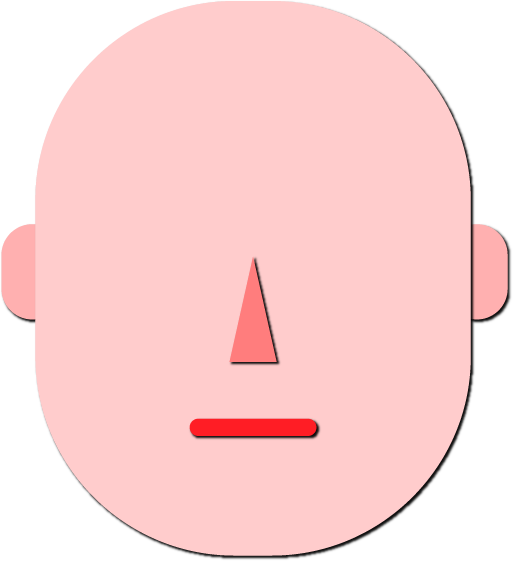
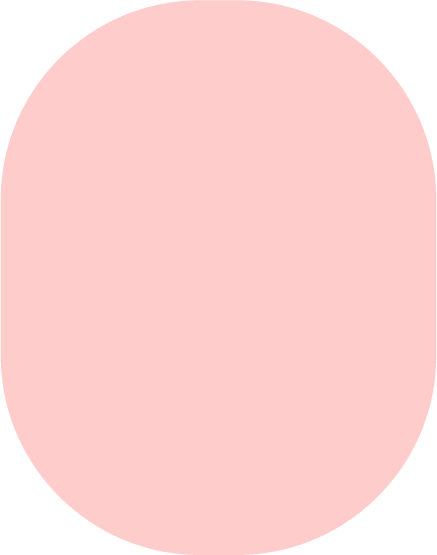
얼굴 요소 분리(눈/코/입/귀), 애니메이션 및 일러스트 디테일 조정

diff --git a/2/styles.css b/2/styles.css
@@ -11,83 +11,113 @@ body {
 
 #hair {
     position: absolute;
-    width: 450px;
-    top: -60px;
-    left: 0px;
+    width: 460px;
+    top: -50px;
+    left: -30px;
+    filter: drop-shadow( 1px 1px 2px black);
 }
 
 #face {
-    width: 450px;
+    width: 400px;
+    filter: drop-shadow( 1px 1px 2px black);
+}
+
+#nose {
+    position: absolute;
+    top: 250px;
+    left: 179px;
+    filter: drop-shadow( 1px 1px 2px black);
+}
+
+#mouse {
+    position: absolute;
+    top: 400px;
+    left: 138px;
+    filter: drop-shadow( 1px 1px 2px black);
+}
+
+#left_ear {
+    position: absolute;
+    top: 220px;
+    left: -35px;
+    filter: drop-shadow( 1px 1px 1px black);
+}
+
+#right_ear {
+    position: absolute;
+    top: 220px;
+    left: 370px;
+    filter: drop-shadow( 0px 1px 1px black);
 }
 
 #left_eye {
     position: absolute;
-    top: 188px;
-    left: 85px;
+    top: 210px;
+    left: 61px;
     filter: drop-shadow( 1px 2px 2px rgba(0, 0, 0, .7));
 }
 
 #right_eye {
     position: absolute;
-    top: 188px;
-    left: 261px;
+    top: 210px;
+    left: 238px;
     filter: drop-shadow( 1px 2px 2px rgba(0, 0, 0, .7));
 }
 
 #left_pupil {
     position: absolute;
-    top: 219px;
-    left: 115px;
+    top: 240px;
+    left: 88px;
     width: 40px;
     height: 40px;
     background-color: rgb(0, 153, 255);
     border-radius: 100%;
+    filter: drop-shadow( 2px 2px 1px rgba(0, 0, 0, .7));
 }
 
 #right_pupil {
     position: absolute;
-    top: 219px;
-    left: 290px;
+    top: 240px;
+    left: 268px;
     width: 40px;
     height: 40px;
     background-color: rgb(0, 153, 255);
     border-radius: 100%;
+    filter: drop-shadow( 2px 2px 1px rgba(0, 0, 0, .7));
 }
 
 #left_eye_closed {
     display: none;
     position: absolute;
-    width: 100px;
-    height: 10px;
-    background-color: black;
-    left: 80px;
-    top: 230px;
+    left: 67px;
+    top: 250px;
+    filter: drop-shadow( 2px 2px 1px rgba(0, 0, 0, .7));
 }
 
 #right_eye_closed {
     display: none;
     position: absolute;
-    width: 100px;
-    height: 10px;
-    background-color: black;
-    left: 260px;
-    top: 230px;
+    left: 245px;
+    top: 250px;
+    filter: drop-shadow( 2px 2px 1px rgba(0, 0, 0, .7));
 }
 
 #left_tear {
     position: absolute;
     width: 50px;
-    top: 248px;
-    left: 111px;
+    top: 275px;
+    left: 88px;
     display: none;
+    filter: drop-shadow( 1px 1px 1px rgba(0, 0, 0, .7));
 }
 
 #right_tear {
     position: absolute;
     width: 50px;
-    top: 248px;
-    left: 261px;
+    top: 275px;
+    left: 265px;
     display: none;
+    filter: drop-shadow( 1px 1px 1px rgba(0, 0, 0, .7));
 }
 
 @keyframes teardrop {
@@ -95,12 +125,12 @@ body {
         transform: translateY(0px);
     }
     100% {
-        transform: translateY(1000px);
+        transform: translateY(800px);
     }
 }
 
 .teardrop {
     animation-name: teardrop;
-    animation-duration: 1s;
+    animation-duration: 2.5s;
     animation-fill-mode: forwards;
 }

diff --git a/2/index.html b/2/index.html
@@ -6,21 +6,23 @@
 
     <body>
         <div id="frame">
+            <img id='left_ear' src="./assets/ear.png" draggable="false"></img>
+            <img id='right_ear' src="./assets/ear.png" draggable="false"></img>
             <img id='face' src="./assets/face.png" draggable="false"></img>
+            <img id='mouse' src="./assets/mouse.png" draggable="false"></img>
+            <img id='nose' src="./assets/nose.png" draggable="false"></img>
             <svg id="left_eye" width="100" height="100">
-                <circle cx="50" cy="50" r="40" fill="white" />
+                <circle cx="50" cy="50" r="42" fill="white" />
             </svg>
             <div id="left_pupil"></div>
             <svg id="right_eye" width="100" height="100">
-                <circle cx="50" cy="50" r="40" fill="white" />
+                <circle cx="50" cy="50" r="42" fill="white" />
             </svg>
             <div id="right_pupil"></div>
             <img id="left_tear" src="./assets/tear.png" draggable="false"></img>
             <img id="right_tear" src="./assets/tear.png" draggable="false"></img>
-            <div id="left_eye_closed">
-            </div>
-            <div id="right_eye_closed">
-            </div>
+            <img id="left_eye_closed" src="./assets/closed_eye.png" draggable="false"></img>
+            <img id="right_eye_closed" src="./assets/closed_eye.png" draggable="false"></img>
             <img id='hair' src="./assets/hair.png" draggable="false"></img>
         </div>
         

diff --git a/2/index.js b/2/index.js
@@ -23,11 +23,11 @@ document.addEventListener('mousemove', (e) => {
     const rightPupilX = rightPupil.getBoundingClientRect().left
     const rightPupilY = rightPupil.getBoundingClientRect().top
 
-    const leftX = (e.pageX - leftPupilX) / 45
-    const leftY = (e.pageY - leftPupilY) / 25
+    const leftX = (e.pageX - leftPupilX) / 50
+    const leftY = (e.pageY - leftPupilY) / 30
 
-    const rightX = (e.pageX - rightPupilX) / 45
-    const rightY = (e.pageY - rightPupilY) / 25
+    const rightX = (e.pageX - rightPupilX) / 50
+    const rightY = (e.pageY - rightPupilY) / 30
 
     leftPupil.style.transform = `translate(${leftX}px, ${leftY}px)`
     rightPupil.style.transform = `translate(${rightX}px, ${rightY}px)`
@@ -78,8 +78,8 @@ document.querySelectorAll('svg').forEach((eye) => {
     let offset = 0
 
     const animate = () => {
-        warp.transform(([ x, y, oy ]) => [ x, oy + 3 * Math.sin(x / 6 + offset), oy ])
-        offset += 0.18
+        warp.transform(([ x, y, oy ]) => [ x, oy + 4 * Math.sin(x / 6 + offset), oy ])
+        offset += 0.13
         requestAnimationFrame(animate)
     }
     
